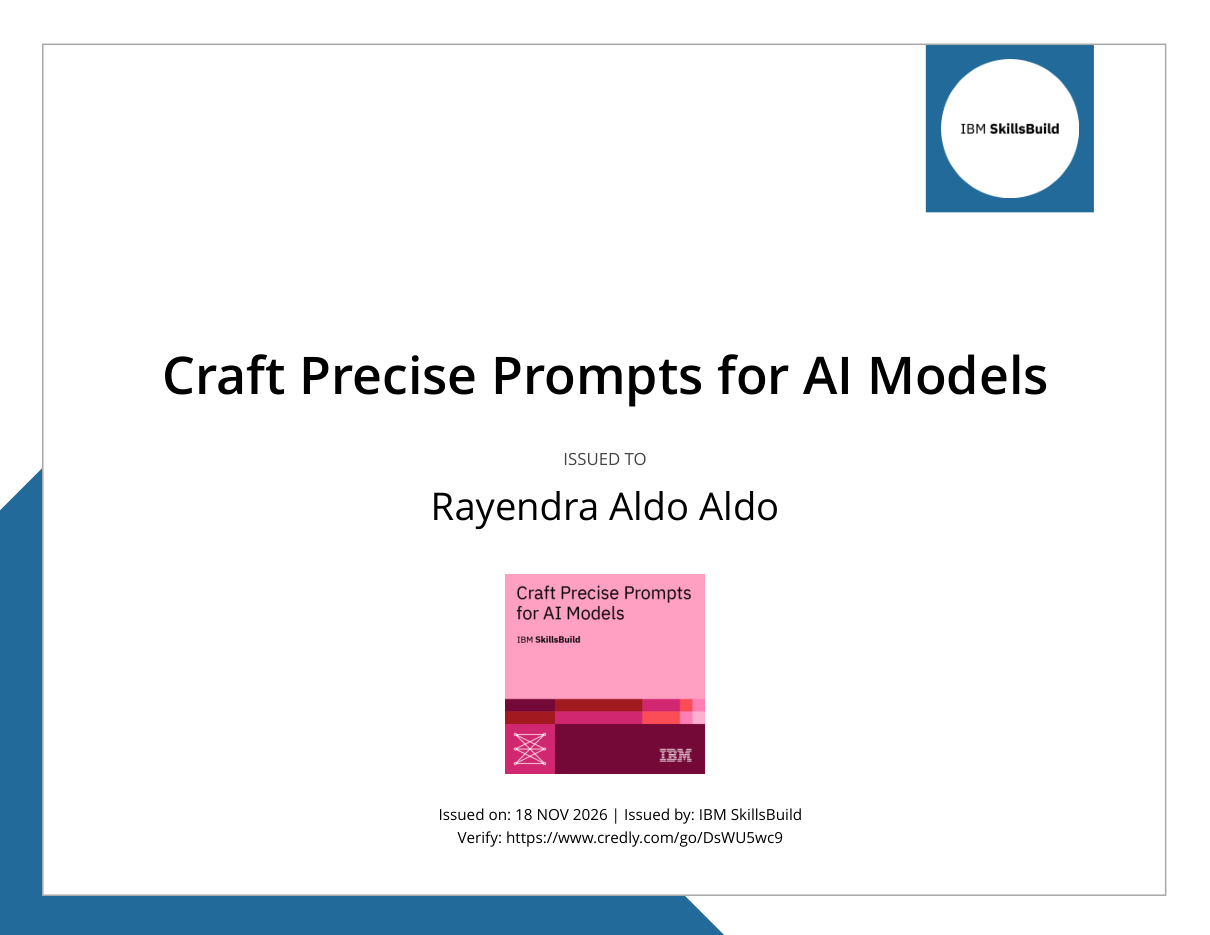
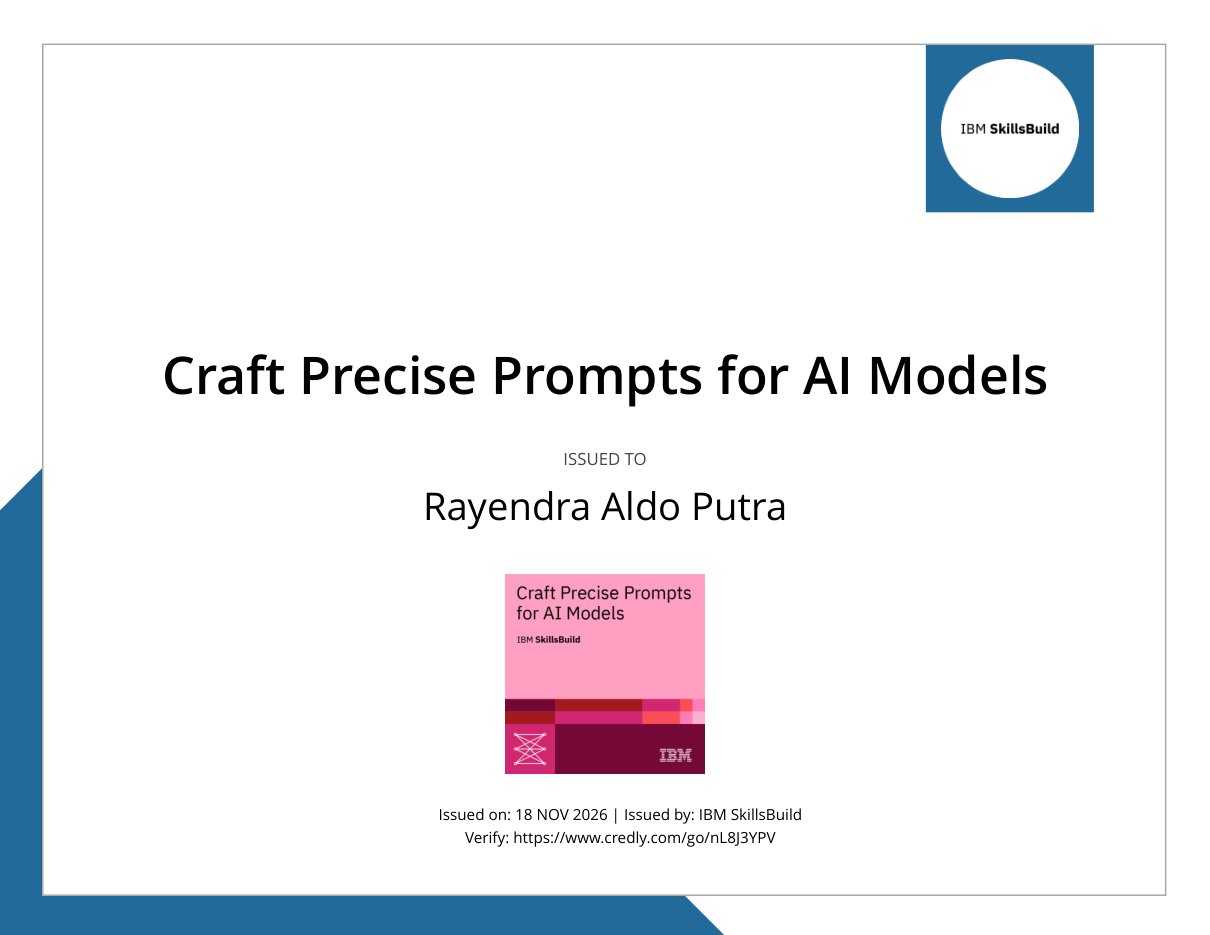
Sertifikat: thumbnail nama terbaru + grid statis terpusat (slider dihapus), link Credly prompts diperbarui
Generated with [Devin](https://devin.ai)

Changed region(s): [[0.3364, 0.5273, 0.6727, 0.5583], [0.3669, 0.8684, 0.6421, 0.8995]]

diff --git a/app/[locale]/page.tsx b/app/[locale]/page.tsx
@@ -1,5 +1,4 @@
 import { notFound } from "next/navigation";
-import { CertSlider } from "@/components/CertSlider";
 import { Lightbox } from "@/components/Lightbox";
 import { CountUp } from "@/components/CountUp";
 import { Marquee } from "@/components/Marquee";
@@ -328,11 +327,55 @@ export default async function HomePage({ params }: { params: Promise<{ locale: s
       <section id="certs" className="pg">
         <div className="pg-in">
           <Head n={5} h={heads[4]} />
-          <CertSlider
-            items={copy.certs.items}
-            verifyLabel={copy.certs.verifyLabel}
-            emptyLabel={copy.certs.emptyLabel}
-          />
+          <ul className="ct-grid">
+            {copy.certs.items.length > 0
+              ? copy.certs.items.map((c, i) => (
+                  <Reveal as="li" key={i} delay={i * 80} variant="zoom" className="ct">
+                    <a
+                      className="ct-card"
+                      href={c.link}
+                      target="_blank"
+                      rel="noreferrer"
+                      onClick={(e) => e.preventDefault()}
+                    >
+                      <span
+                        className="ct-frame has-img"
+                        data-cap={`${c.title} — ${c.issuer} · ${c.year}`}
+                        data-href={c.link}
+                        data-vlabel={copy.certs.verifyLabel}
+                      >
+                        {/* eslint-disable-next-line @next/next/no-img-element */}
+                        <img
+                          src={c.image}
+                          alt={c.title}
+                          className={c.fit === "contain" ? "is-contain" : ""}
+                          loading="lazy"
+                          draggable={false}
+                        />
+                      </span>
+                      <span className="ct-info">
+                        <span className="ct-title">{c.title}</span>
+                        <span className="ct-meta">
+                          {c.issuer} · {c.year}
+                        </span>
+                        <span className="ct-verify">{copy.certs.verifyLabel} ↗</span>
+                      </span>
+                    </a>
+                  </Reveal>
+                ))
+              : [0, 1, 2].map((i) => (
+                  <Reveal as="li" key={i} delay={i * 100} variant="zoom" className="ct">
+                    <span className="ct-frame">
+                      <span className="ct-mark" aria-hidden />
+                      <span className="ct-label">{copy.certs.emptyLabel}</span>
+                    </span>
+                    <span className="ct-lines">
+                      <span className="ct-line" />
+                      <span className="ct-line is-short" />
+                    </span>
+                  </Reveal>
+                ))}
+          </ul>
         </div>
       </section>
 

diff --git a/app/globals.css b/app/globals.css
@@ -1437,19 +1437,21 @@ body {
 /* ---------- certificates ---------- */
 
 .ct-grid {
-  display: grid;
-  gap: 1.4rem;
+  display: flex;
+  flex-wrap: wrap;
+  justify-content: center;
+  gap: 1.6rem;
   margin: 4.5rem 0 0;
   padding: 0;
   list-style: none;
-}
-@media (min-width: 720px) {
-  .ct-grid { grid-template-columns: repeat(3, 1fr); }
 }
 .ct {
   display: flex;
   flex-direction: column;
   gap: 1.1rem;
+  flex: 0 1 300px;
+  max-width: 340px;
+  min-width: 240px;
 }
 .ct-frame {
   position: relative;
@@ -1498,81 +1500,6 @@ body {
   background: var(--line);
 }
 .ct-line.is-short { width: 55%; }
-
-.ct-slider {
-  position: relative;
-  margin-top: 4.5rem;
-}
-.ct-nav {
-  position: absolute;
-  top: -3.4rem;
-  right: 0;
-  display: flex;
-  gap: 0.5rem;
-}
-.ct-nav button {
-  width: 2.4rem;
-  height: 2.4rem;
-  border: 1px solid var(--line-strong);
-  border-radius: 0.5rem;
-  background: var(--surface);
-  color: var(--muted);
-  font-size: 0.95rem;
-  cursor: pointer;
-  transition: color 0.25s, border-color 0.25s, transform 0.25s;
-}
-.ct-nav button:hover {
-  color: var(--text);
-  border-color: var(--muted);
-  transform: translateY(-2px);
-}
-.ct-grid.is-slider {
-  display: flex;
-  flex-direction: row;
-  flex-wrap: nowrap;
-  gap: 1.4rem;
-  margin: 0;
-  overflow-x: auto;
-  scroll-snap-type: x mandatory;
-  scrollbar-width: thin;
-  scrollbar-color: var(--line-strong) transparent;
-  padding-bottom: 0.9rem;
-  cursor: grab;
-  mask-image: linear-gradient(90deg, transparent 0%, #000 7%, #000 93%, transparent 100%);
-  -webkit-mask-image: linear-gradient(90deg, transparent 0%, #000 7%, #000 93%, transparent 100%);
-}
-.ct-grid.is-slider.is-drag {
-  cursor: grabbing;
-  scroll-snap-type: none;
-  scroll-behavior: auto;
-}
-.ct-grid.is-slider.is-drag * {
-  user-select: none;
-  pointer-events: none;
-}
-@media (min-width: 720px) {
-  .ct-grid.is-slider { grid-template-columns: none; }
-}
-.ct-grid.is-slider .ct {
-  flex: 0 0 min(340px, 82vw);
-  scroll-snap-align: start;
-}
-.ct-grid.is-slider.is-infinite {
-  scrollbar-width: none;
-}
-.ct-grid.is-slider.is-infinite::-webkit-scrollbar {
-  display: none;
-}
-.ct-grid.is-slider::-webkit-scrollbar {
-  height: 5px;
-}
-.ct-grid.is-slider::-webkit-scrollbar-thumb {
-  background: var(--line-strong);
-  border-radius: 3px;
-}
-.ct-grid.is-slider::-webkit-scrollbar-track {
-  background: transparent;
-}
 
 .ct-card {
   display: flex;

diff --git a/lib/i18n.ts b/lib/i18n.ts
@@ -280,7 +280,7 @@ const id = {
         issuer: "IBM SkillsBuild",
         year: "2026",
         image: "/certs/ibm-prompts.png",
-        link: "https://www.credly.com/go/DsWU5wc9",
+        link: "https://www.credly.com/go/nL8J3YPV",
         fit: "cover" as const,
       },
       {
@@ -513,7 +513,7 @@ const en: typeof id = {
         issuer: "IBM SkillsBuild",
         year: "2026",
         image: "/certs/ibm-prompts.png",
-        link: "https://www.credly.com/go/DsWU5wc9",
+        link: "https://www.credly.com/go/nL8J3YPV",
         fit: "cover" as const,
       },
       {
